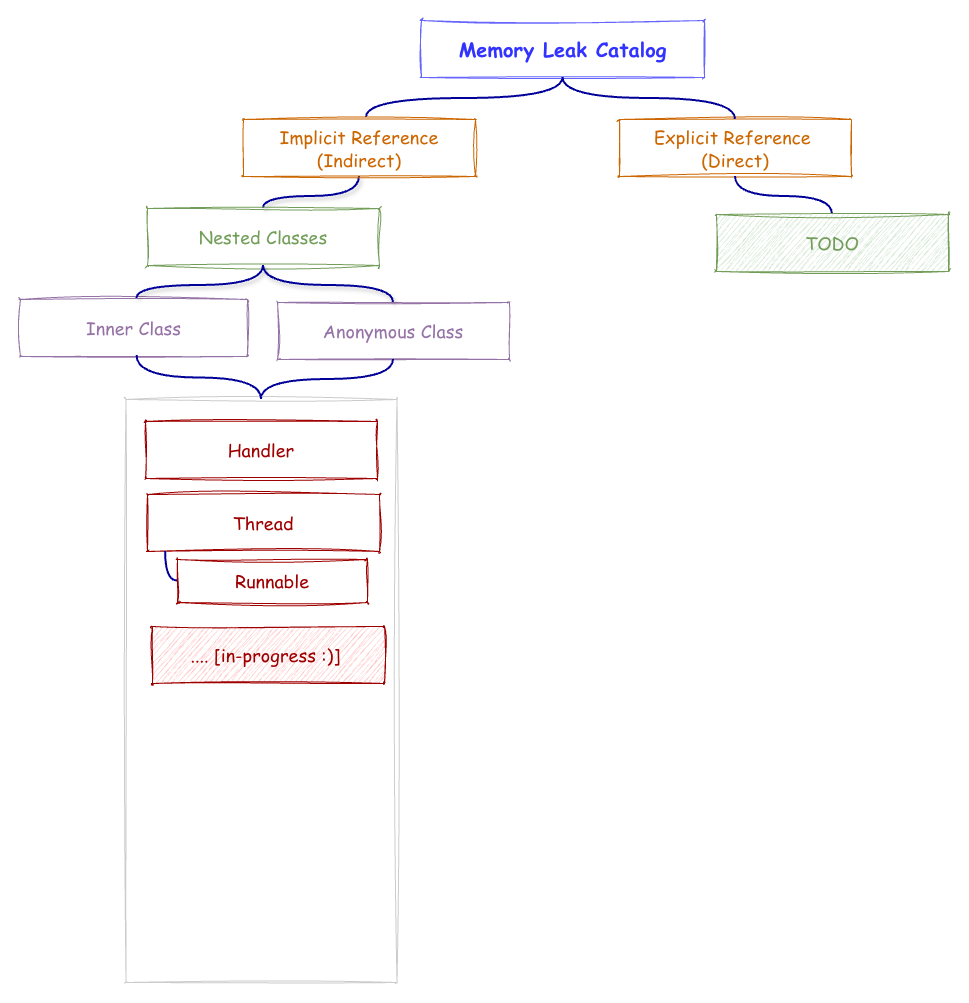
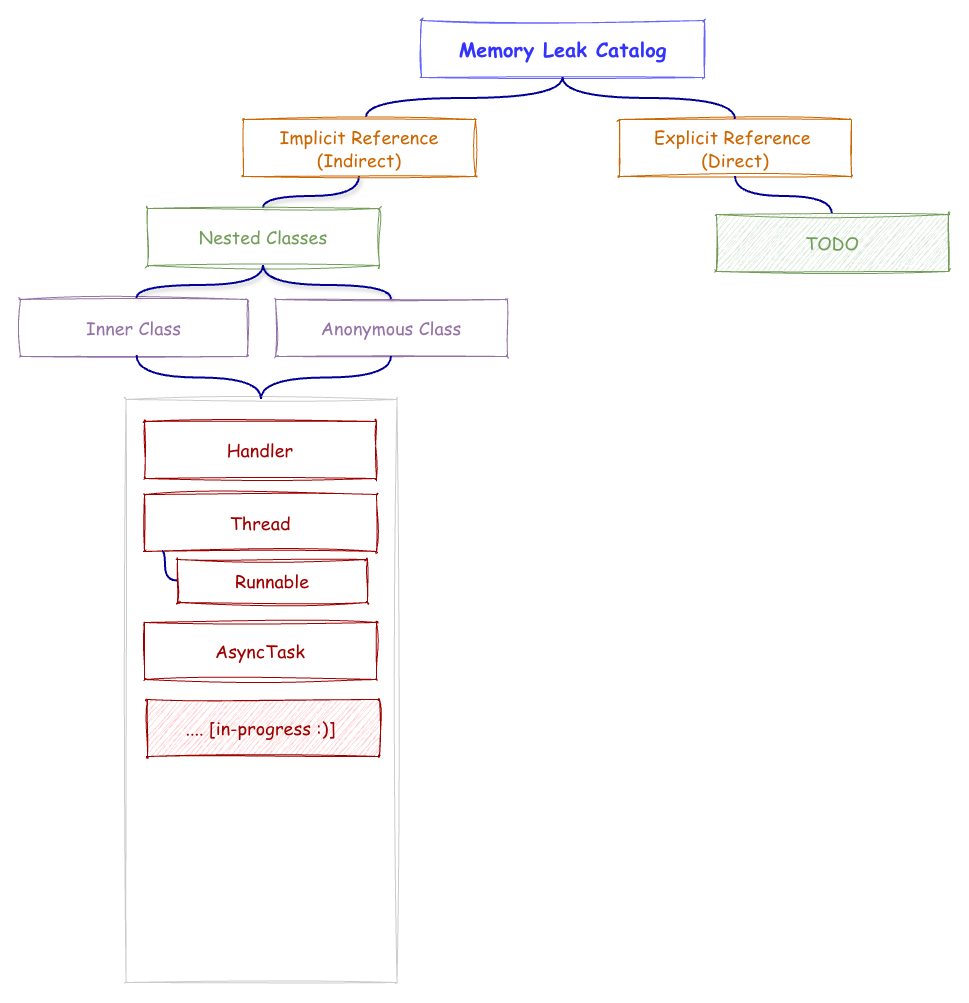
Async task memory leak (#9)

diff --git a/app/src/main/java/com/memoryleak/catalog/implicit/asynctask/AsyncTaskActivity.kt b/app/src/main/java/com/memoryleak/catalog/implicit/asynctask/AsyncTaskActivity.kt
@@ -1,0 +1,29 @@
+package com.memoryleak.catalog.implicit.asynctask
+
+import android.os.AsyncTask
+import android.os.Bundle
+import androidx.activity.enableEdgeToEdge
+import androidx.appcompat.app.AppCompatActivity
+import androidx.core.view.ViewCompat
+import androidx.core.view.WindowInsetsCompat
+import com.memoryleak.catalog.R
+
+class AsyncTaskActivity : AppCompatActivity() {
+    override fun onCreate(savedInstanceState: Bundle?) {
+        super.onCreate(savedInstanceState)
+        setContentView(R.layout.activity_async_task)
+        MyAsyncTask().execute()
+    }
+
+    private inner class MyAsyncTask: AsyncTask<Void?, Void?, Void?>() {
+        override fun doInBackground(vararg params: Void?): Void? {
+            Thread.sleep(5000)
+            return null
+        }
+
+        override fun onPostExecute(result: Void?) {
+            super.onPostExecute(result)
+            this@AsyncTaskActivity
+        }
+    }
+}

diff --git a/app/src/main/java/com/memoryleak/catalog/implicit/ImplicitMemoryLeakActivity.kt b/app/src/main/java/com/memoryleak/catalog/implicit/ImplicitMemoryLeakActivity.kt
@@ -9,6 +9,7 @@ import androidx.core.view.ViewCompat
 import androidx.core.view.WindowInsetsCompat
 import com.memoryleak.catalog.R
 import com.memoryleak.catalog.implicit.anonymous.AnonymousActivity
+import com.memoryleak.catalog.implicit.asynctask.AsyncTaskActivity
 import com.memoryleak.catalog.implicit.handler.HandlerActivity
 import com.memoryleak.catalog.implicit.innerclasses.InnerClassActivity
 import com.memoryleak.catalog.implicit.thread.RunnableActivity
@@ -37,6 +38,10 @@ class ImplicitMemoryLeakActivity : AppCompatActivity() {
 
         findViewById<Button>(R.id.btn_runnable).setOnClickListener {
             startActivity(Intent(this, RunnableActivity::class.java))
+        }
+
+        findViewById<Button>(R.id.btn_async_task).setOnClickListener {
+            startActivity(Intent(this, AsyncTaskActivity::class.java))
         }
     }
 }

diff --git a/docs/AsyncTask.md b/docs/AsyncTask.md
@@ -1,0 +1,155 @@
+# AsyncTask
+`AsyncTask` was a component designed to handle background operations and publish results on the UI thread without manual thread management.
+`AsyncTask` was often implemented as an inner or anonymous class to easily access UI components.
+
+
+**Note:** `AsyncTask` was deprecated in API level 30. For new development, it is highly recommended to use modern concurrency solutions like `Kotlin Coroutines`, `ViewModel`, and `LiveData`, which are more efficient and less prone to memory leaks.
+
+
+## The Cause: Implicit References
+A memory leak occurs because non-static inner and anonymous classes hold an implicit reference to their outer class (e.g., an `Activity` or `Fragment`).
+
+If the `Activity` is destroyed (e.g., due to a screen rotation or the user navigating away) while the `AsyncTask` is still running its long background task, the Garbage Collector cannot reclaim the `Activity`'s memory because the `AsyncTask` still holds a strong reference to it.
+
+<img src="../media/AsyncTask_diagram.png" style="border:1px solid #ccc;"  alt="AsyncTask diagram"/>
+
+
+## Leaky Code Examples
+**Inner class:**
+```kotlin
+private inner class MyAsyncTask: AsyncTask<Void?, Void?, String>() {
+    override fun doInBackground(vararg params: Void?): Void? {
+        // Long-running work
+        Thread.sleep(5000)
+        return null
+    }
+
+    override fun onPostExecute(result: String) {
+        // Implicit reference to the outer Activity
+        this@AsyncTaskActivity
+    }
+}
+```
+
+**Anonymous class:**
+```kotlin
+object : AsyncTask<Void?, Void?, Void?>() {
+   override fun doInBackground(vararg params: Void?): Void? {
+       Thread.sleep(5000)
+       return null
+   }
+
+   override fun onPostExecute(result: Void?) {
+       super.onPostExecute(result)
+       // This line will crash if the Activity was destroyed, but the leak
+       // happens regardless because of the implicit reference.
+       findViewById<TextView>(R.id.textView).text = "Task Finished!"
+   }
+}.execute()
+```
+
+### Detect the Memory Leak
+1.  Run the app and rotate the activity.
+2.  Click back to close the activity.
+3.  Check for the leak in the Android Studio Profiler by capturing a heap dump.
+
+**Memory leak output:**
+<img src="../media/AsyncTask_ml.png" style="border:1px solid #ccc;"  alt="AsyncTask memory leak output"/>
+
+
+## Fixing the Memory Leak
+
+### Solution 1: Use a Static Inner Class with a WeakReference (Legacy)
+This was the traditional way to solve the leak. It prevents a strong reference to the `Activity` but adds boilerplate code.
+
+1.  **Make the `AsyncTask` a `static` inner class:** This removes the implicit reference.
+2.  **Use a `WeakReference`:** Pass the `Activity` or `View` to the task inside a `WeakReference`, which allows it to be garbage collected.
+3.  **Cancel the task:** In the `Activity`'s `onDestroy()` method, cancel the task to stop unnecessary work.
+
+```kotlin
+class AsyncTaskActivity : AppCompatActivity() {
+
+    private lateinit var myAsyncTask: MyAsyncTask
+    
+    override fun onCreate(savedInstanceState: Bundle?) {
+        super.onCreate(savedInstanceState)
+        setContentView(R.layout.activity_async_task)
+
+        myAsyncTask = MyAsyncTask(this).apply { execute() }
+    }
+    
+    override fun onDestroy() {
+        super.onDestroy()
+        // Cancel the task to avoid performing work when the Activity is gone
+        myAsyncTask?.cancel(true)
+    }
+
+    // Static inner class does not hold an implicit reference to the outer Activity
+    private class MyAsyncTask(activity: AsyncTaskActivity): AsyncTask<Void?, Void?, String>() {
+        // WeakReference allows the Activity to be garbage collected
+        private val activityReference: WeakReference<AsyncTaskActivity> = WeakReference(activity)
+    
+        override fun doInBackground(vararg params: Void?): String {
+            Thread.sleep(5000)
+            return "Finished"
+        }
+    
+        override fun onPostExecute(result: String) {
+            // Only proceed if the Activity is still alive
+            val activity = activityReference.get()
+            if (activity == null || activity.isFinishing) {
+                return
+            }
+            
+            // Now it's safe to update the UI
+            activity.findViewById<TextView>(R.id.textView).text = result
+        }
+    }
+}
+```
+
+### Solution 2: Migrate to ViewModel and Coroutines (Recommended)
+The modern and recommended approach is to use `ViewModel` with Kotlin Coroutines. This architecture-aware solution handles lifecycle events automatically, preventing memory leaks and simplifying code.
+
+-   **`ViewModel`**: Survives configuration changes and holds UI-related data.
+-   **`viewModelScope`**: A built-in `CoroutineScope` that is automatically cancelled when the `ViewModel` is cleared, preventing leaks.
+
+```kotlin
+class MyViewModel : ViewModel() {
+    
+    private val _result = MutableLiveData<String>()
+    val result: LiveData<String> = _result
+
+    fun doLongRunningWork() {
+        // viewModelScope is automatically cancelled when the ViewModel is cleared
+        viewModelScope.launch {
+            // Run the long-running task on a background thread
+            val workResult = withContext(Dispatchers.IO) {
+                delay(5000)
+                "Finished"
+            }
+            // Post the result to the main thread
+            _result.value = workResult
+        }
+    }
+}
+
+// Observe the result in Activity
+class AsyncTaskActivity : AppCompatActivity() {
+    
+    private val viewModel: MyViewModel by viewModels()
+
+    override fun onCreate(savedInstanceState: Bundle?) {
+        super.onCreate(savedInstanceState)
+        setContentView(R.layout.activity_async_task)
+
+        // Observe the LiveData for results
+        viewModel.result.observe(this) { result ->
+            findViewById<TextView>(R.id.textView).text = result
+        }
+
+        // Start the work
+        viewModel.doLongRunningWork()
+    }
+}
+```

diff --git a/docs/AnonymousClass.md b/docs/AnonymousClass.md
@@ -64,7 +64,7 @@ In this example, `anonymousObject` is stored in a `companion object`, making it 
 * Run the app and rotate the device (which destroys and recreates the Activity).
 * Then check for a memory leak using the Android Studio Profiler.
 
-<img src="../media/anonymous_example.png"  style="border: 1px solid #000;">
+<img src="../media/anonymous_ml.png"  style="border: 1px solid #000;">
 
 
 

diff --git a/README.md b/README.md
@@ -78,6 +78,7 @@ Under nested classes (Inner or Anonymous) there are multiple cases
 * [Handler.md](docs/Handler.md)
 * [Thread](docs/Thread.md)
   * [Runnable](docs/Thread.md)
+* [AsyncTask.md](docs/AsyncTask.md)
 * TODO....
 
 
